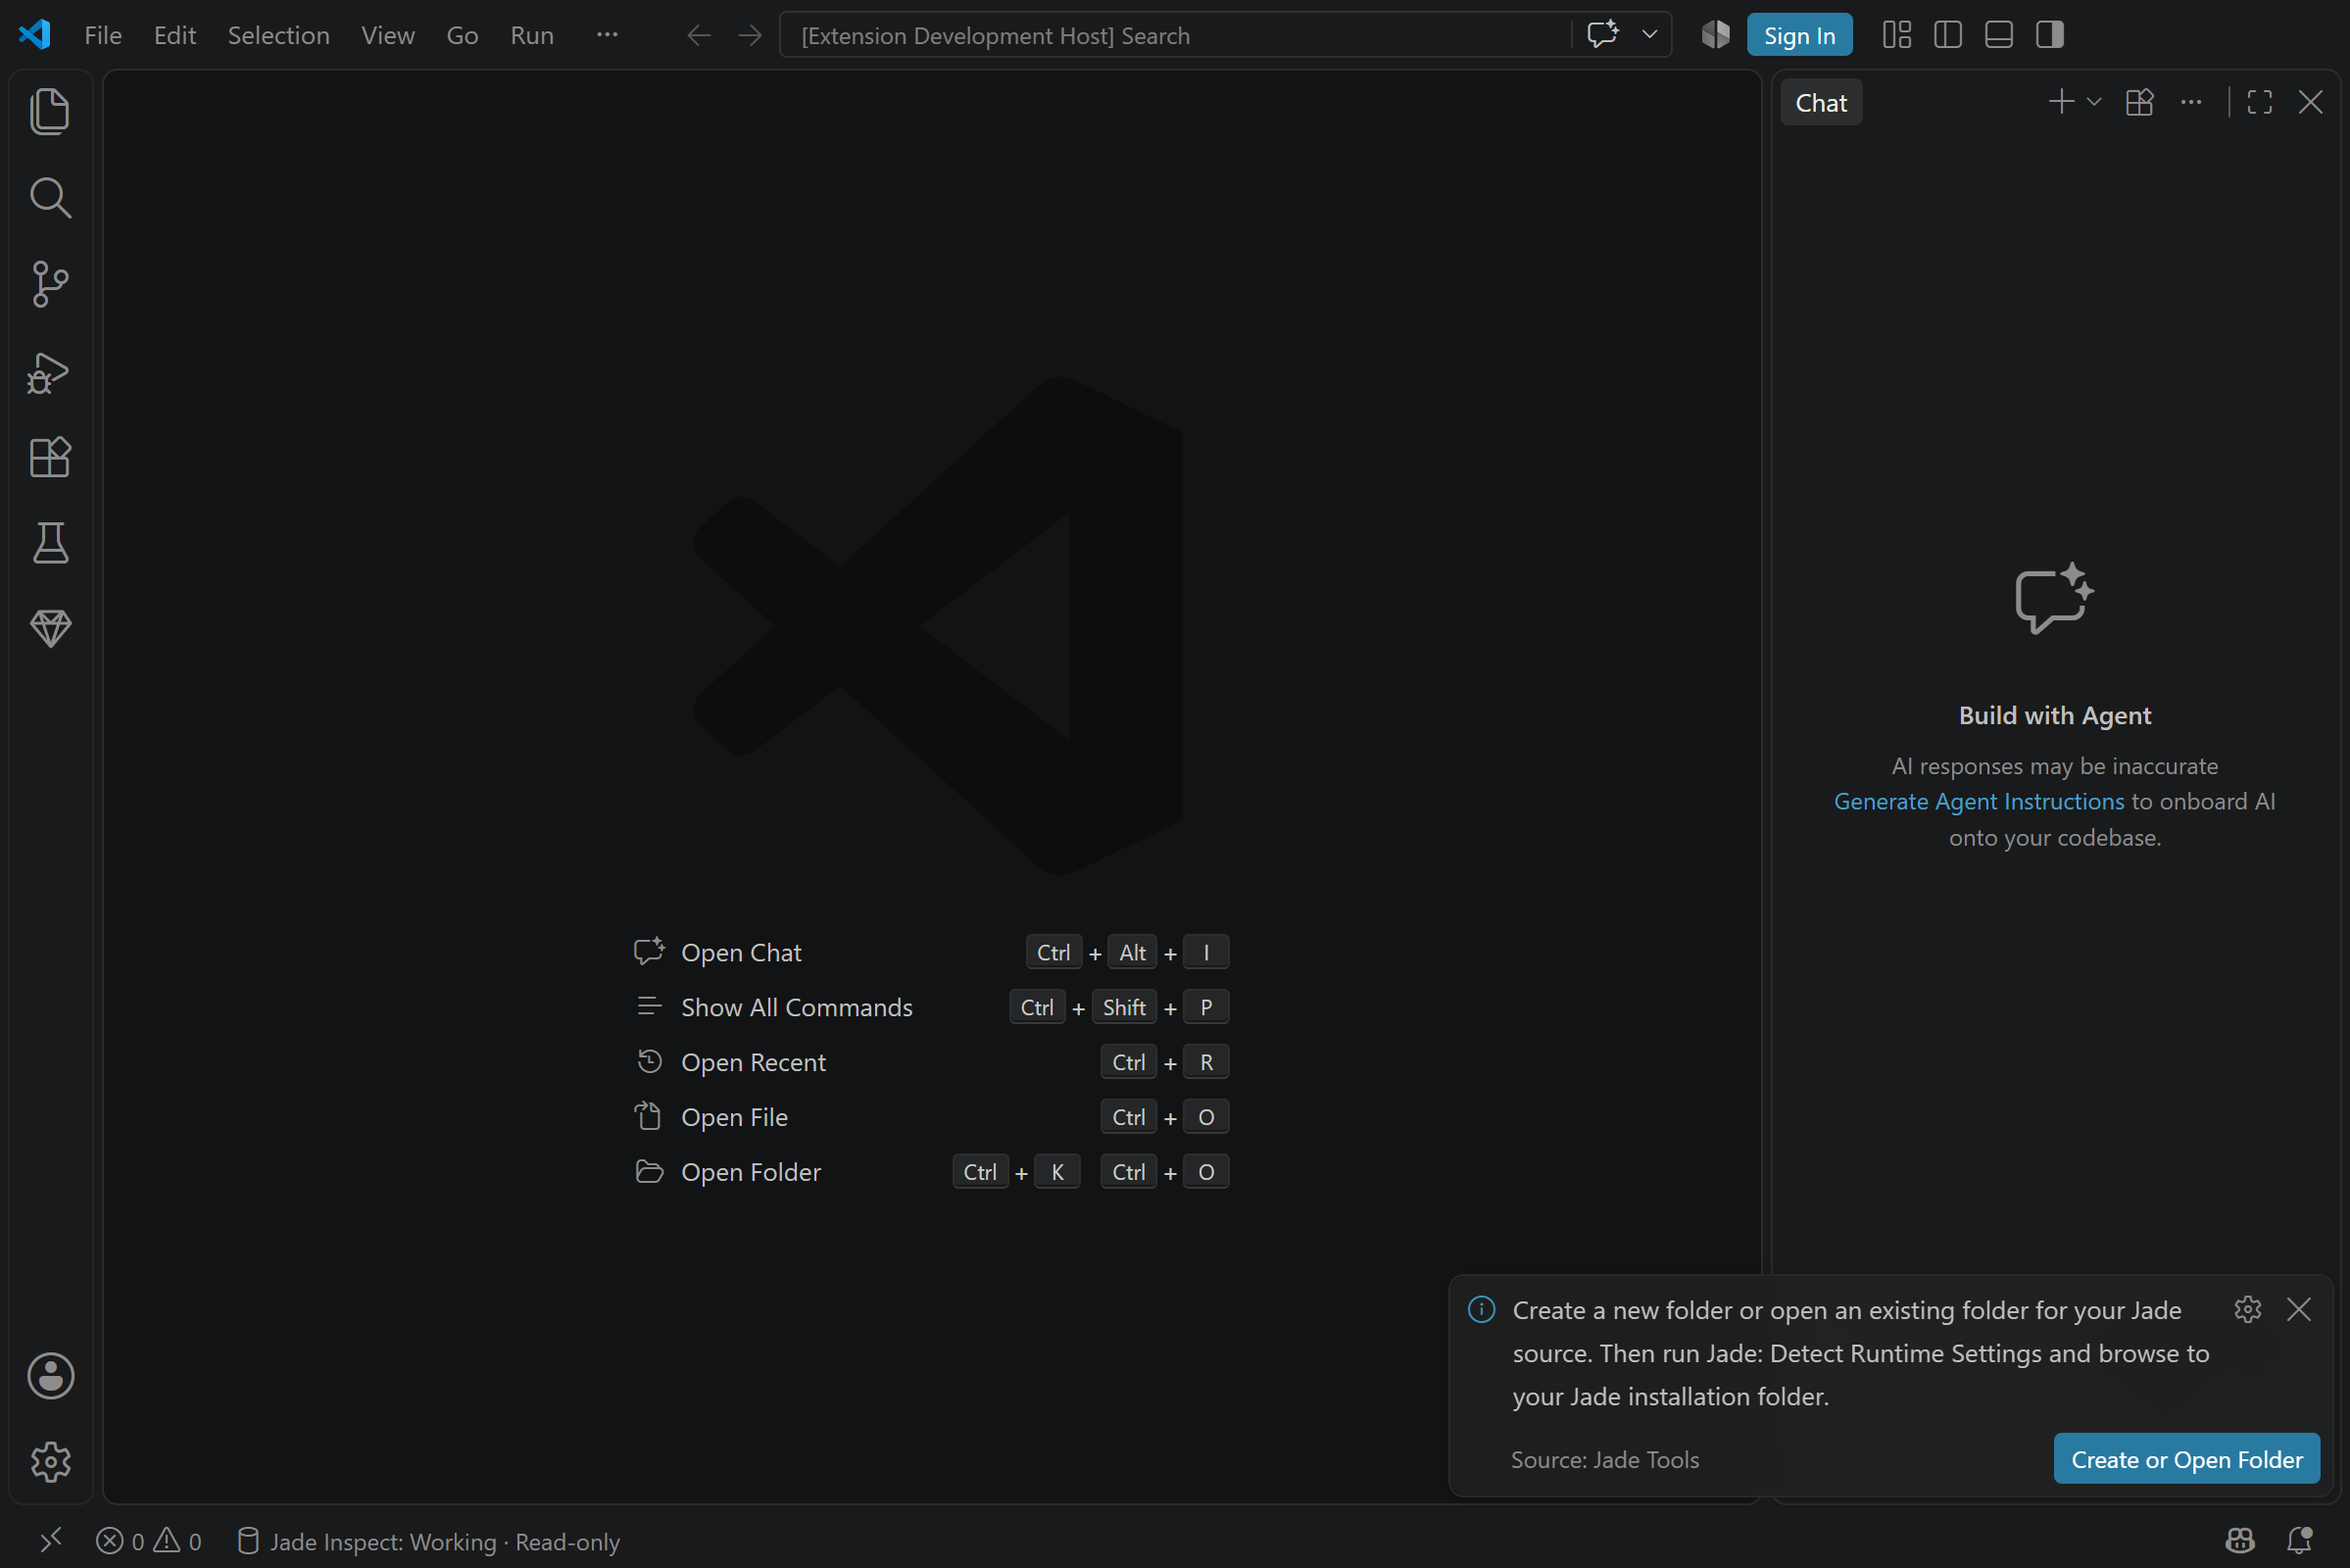
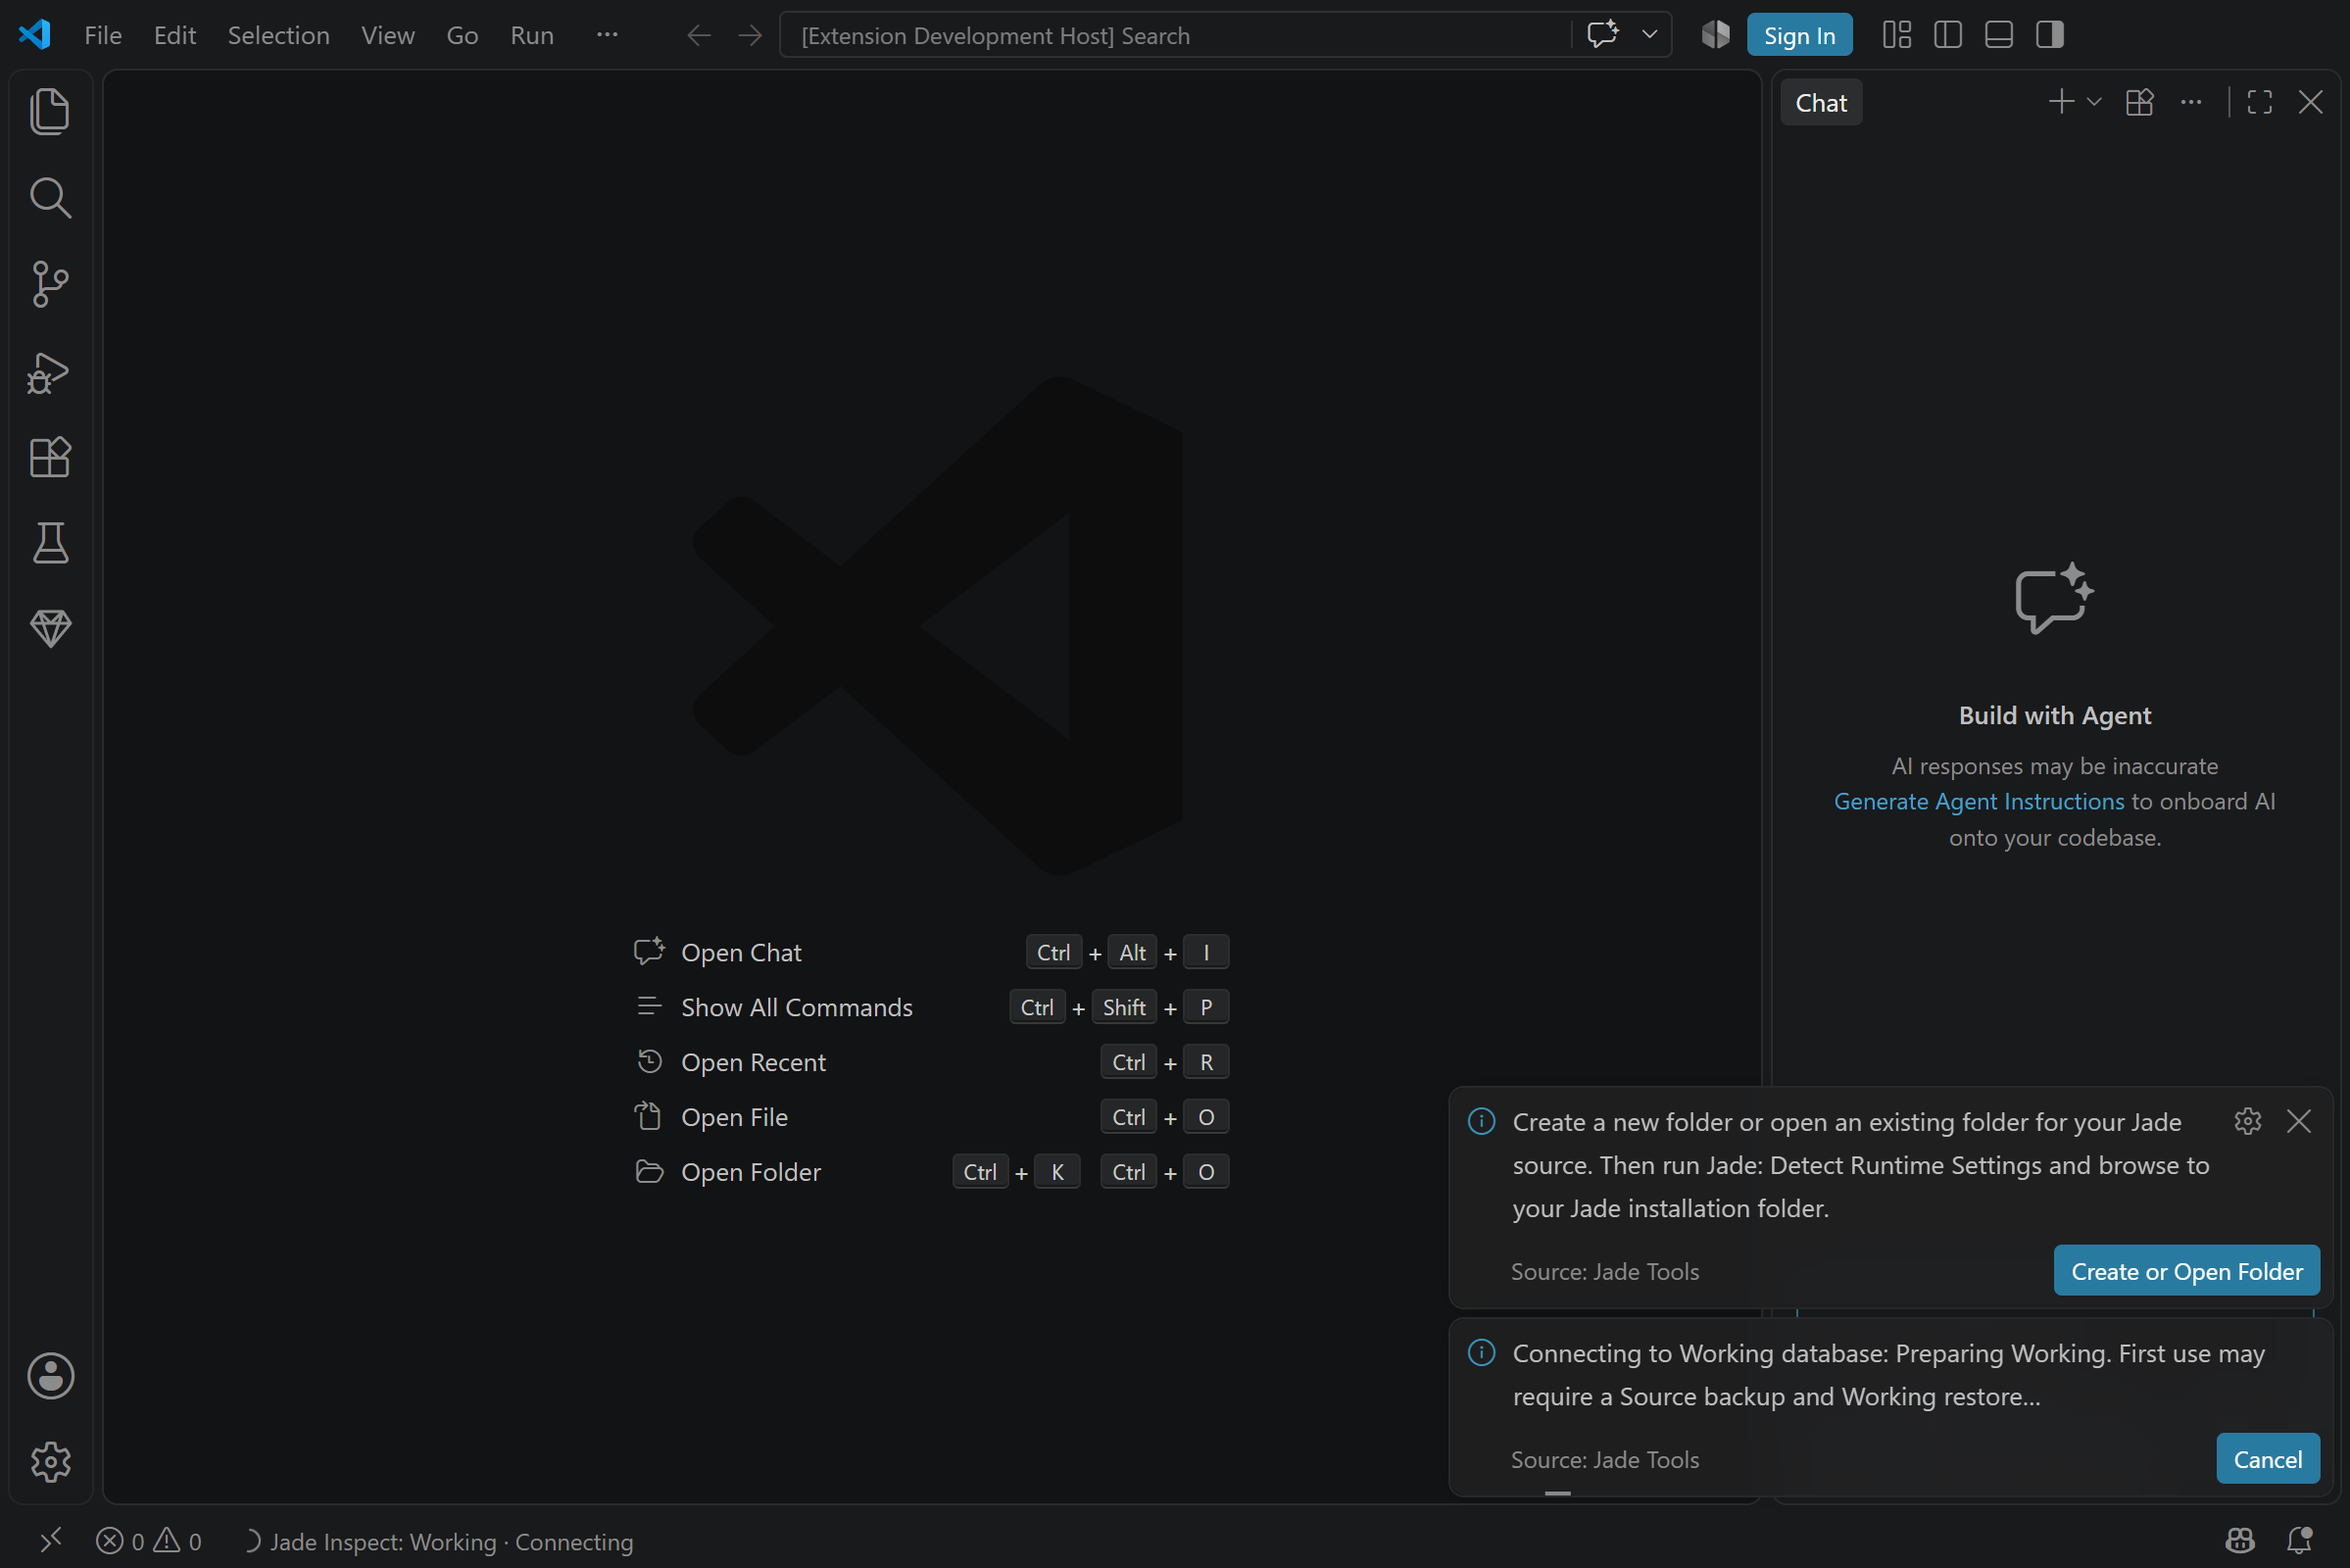
Refresh current setup UI evidence and official package verification

diff --git a/plans/first-run-database-setup.md b/plans/first-run-database-setup.md
@@ -30,3 +30,8 @@ Resolved the PR against approved main 92afb836, retaining the official CLI 0.6.0
 
 Three additional integration cases were first reproduced as failures: cancelling Connect while either setup information prompt is pending must not execute its later Create/Open Folder or Detect Runtime action, and an active CLS outside all workspace folders must not bypass workspace selection or pass an undefined folder to runtime setup. Minimal cancellation/disposal guards and the existing workspace-folder picker now preserve both constraints. All 56 focused first-run/wizard, Connect-progress and character-set cases pass. No new UI or connection abstraction was added.
 
+
+## Final current-head verification
+
+The final 0.19.1 implementation passes 17 first-run/wizard cases and 56 cases when combined with current connection-progress and character-set regressions. The full default suite passes 1013 JavaScript and 18 PowerShell checks, with 43 explicit native opt-in skips. The packaged VSIX matches the official CLI 0.6.0 manifest and every runtime asset and passes portable discovery without Node on PATH or a database connection. All three actual private VS Code setup states were recaptured and visually inspected against the current implementation, including its retained connection progress. Owned private hosts/profiles and temporary package extraction were cleaned. The independent read-only audit found no further concrete acceptance-criteria omission after the cancellation/scope fixes. User settings, installed extensions, brokers and databases remain untouched. Current-head CI and fresh automated review precede the protected owner-approval handoff.
+
